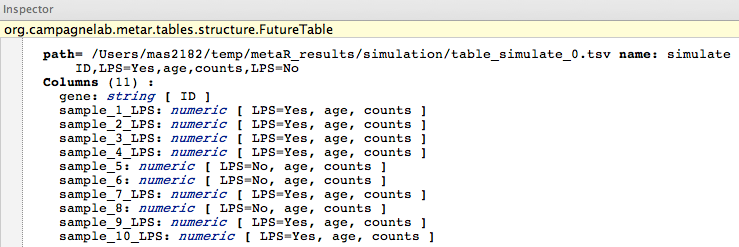
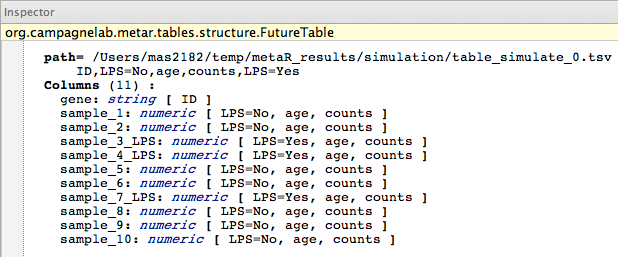
Enrich Simulating Datasets chapter with more text and figures.

Changed region(s): [[0.0, 0.0, 1.0, 1.0]]

diff --git a/chapter_SimulateDatasets.tex b/chapter_SimulateDatasets.tex
@@ -2,64 +2,74 @@
 
 \chapterimage{blue-chapter-head_4-reduced.pdf} % Chapter heading image
 
-\chapter{Simulate Datasets}\label{chap:SimulateDatasets}
-The integration with Docker helps with the reprducibility of your analyses. Installing packages with R does not make it possible to specific exactly the version of the package that you need for an analysis. While it is possible to always install the latest version of a package, the behavior of some packages will change over time. For this reason, it is useful to build snapshots of the R packages used during analysis and report the version number of the snapshot. 
+\chapter{Simulating Datasets}\label{chap:SimulatingDatasets}
 
-\section{Pre-requisites}
-You will need a working docker installation on your machine before you can run MetaR analyses with Docker.
-\subsection{Mac OS}
-\begin{SCfigure}
-  \centering
-  \includegraphics[width=\figWidthNarrow]{figures/Rocker-MetaR-Image.png}
-\caption[Download the MetaR Docker Image.]{\textbf{Download the MetaR Docker Image.} Follow steps steps to locate the MetaR Docker image.}
-\label{fig:RockerMetaRImage}
-\end{SCfigure}
+\section{Why simulating datasets}
 
-Mac users will find it convenient to download and install Kitematic (\url{https://kitematic.com/}). 
- After you unzip Kitematic, move the application to /Applications and start it. Wait until the virtual machine downloads and starts. When kitematic is ready, use the search box to locate the \texttt{rocker-metar} image (see Figure~\ref{fig:RockerMetaRImage} for instructions). 
+To test or validate an Analysis script with large datasets it is sometimes useful to create a simulation of such datasets when they are not available. This approach could be also beneficial at experimental design time to validate certain assumptions before running (expensive) experiments.
 
-
-\subsection{Other Platforms}
- Other users should refer to documented installation steps for their platform (see \url{http://docs.docker.com/installation/}).
-
-\section{Configuring Docker}\index{Docker}
-Docker integration can be configured using the MPS Preferences.  Open Preferences (Setting on Windows) and locate the Docker configuration (use the search box with the docker keyword). You will be presented with the following dialog shown in Figure~\ref{fig:DockerPreferencesDialog}.
+MetaR is extended with a Simulate Dataset command that allows to create datasets starting from a few parameters. In order to use the command, the Simulation language (\texttt{org.campagnelab.metaR.simulation}) has to be imported in the current model (use \keys{\cmd+L} and select the language from the list). Figure~\ref{fig:NewSimulateStatement} shows a new Simulate Dataset statement.
 
 \begin{figure}[h!tbp]
   \centering
-  \includegraphics[width=\figWidthWide]{figures/DockerPreferencesDialog.png}
-\caption[Docker Configuration Dialog.]{\textbf{Docker Configuration Dialog.} This dialog is available under MPS Preferences/Settings.}
-\label{fig:DockerPreferencesDialog}
+  \includegraphics[width=\figWidthWide]{figures/NewSimulateStatement.pdf}
+\caption[New Simulate Dataset Statement.]{\textbf{New Simulate Dataset Statement.} A new Simulate Dataset statement created after you have added the \texttt{org.campagnelab.metaR.simulation} language to the model's MPS Used Languages.}
+\label{fig:NewSimulateStatement}
+\end{figure}
+ 
+
+\section{The Simulate Dataset Statement}
+The Simulate Dataset statement is highly configurable and lets you create a variety of datasets for different needs.  
+
+\paragraph{num of samples}
+The number of samples in the dataset. Each sample is named according to the results of the simulation. If the simulation decides that the sample name \emph{sample\_3 }has been treated with a discrete factor named \emph{LPS}, it is renamed to \emph{sample\_3\_LPS} to make it easy to identify the affection.
+
+\paragraph{num of genes}
+The number of genes in the dataset. Each gene is renamed according to the results  of the simulation. If the simulation decides that the gene named \emph{gene\_2} is affected by a discrete factor named \emph{LPS}, it is renamed to \emph{gene\_2\_LPS} to make it easy to identify the treatment.
+
+\paragraph{mean}
+...
+
+\paragraph{discrete factors}
+List of treatments used in the simulation. About 50\% of the samples will be considered treated with each factor specified here. About 30\% of the genes will be considered affected by each factor.
+
+\paragraph{effect of discrete factors}
+The impact of each discrete factor on the data generated by the simulation
+
+\paragraph{continuous covariate}
+...
+
+
+\section{Example}
+
+\begin{figure}[h!tbp]
+  \centering
+  \includegraphics[width=\figWidthWide]{figures/SimulateStatementWithParameters.pdf}
+\caption[SimulateDataset Example.]{\textbf{Simulate Dataset Example.} The statement will create a dataset with a single discrete factor (LPS) and a covariate factor (age) with a range of 0 to 36 (for instance, this could be the mice age in a mouse model). }
+\label{fig:SimulateDatasetExample}
 \end{figure}
 
-\paragraph{path to docker executable}
-This field must provide a path to a valid docker executable. On linux, try \texttt{which docker} in the shell. On Mac, if you installed Kitematic\index{Kitematic}, open the application and start the terminal with the \menu{File>Open Docker Command}\allowbreak\menu{Line Terminal Window}. In the window, type \texttt{which docker} and copy the location to the field. 
 
-\paragraph{docker options}
-These are the options necessary to connect to the docker server. On Mac, if you installed Kitematic, open the application and start the terminal with the \menu{File>Open Docker Command}\allowbreak\menu{Line Terminal Window}. In the window, type \texttt{echo `docker-machine config`} and copy the line printed to the field. 
-
-\paragraph{image name}
-This is the name of the docker image that you wish to use with MetaR. Keep the default, or enter a customized image name here. Customizing the image is useful if you need to install additional packages than the ones we use during our training sessions. If you create a new image, make sure you use \texttt{fac2003/rocker-metar} in the FROM field. Images that do not build on \texttt{fac2003/rocker-metar} are not supported at this time.
-
-\begin{remark}
-Note that you can specify an image tag/version number. Append a colon (:) and the tag after the image name. For instance, use \texttt{fac2003/rocker-metar:1.3.1} to run the \texttt{rocker-metar} image packaged with MetaR 1.3.1.  
-\end{remark}
-
-\begin{remark}
-Note that specifying a tag is a good idea if you need to reproduce exactly an analysis in the future. Omitting the tag will always get the latest version of the image, which may change over time.  
-\end{remark}
-
-\paragraph{always use docker}
-This checkbox can be use to force the use of Docker by default when running an Analysis. This is convenient if you know that you configuration is correct and want to run all analyses with docker. 
-
-\section{Running with Docker}
-When docker is successfully configured, you can specify to use the docker image when running a MetaR analysis. See instructions in Figure~\ref{fig:RunWithDocker} to see how to configure running insider a Docker container.
-
-\begin{SCfigure}
+\begin{figure}[h!tbp]
   \centering
-  \includegraphics[width=\figWidthNarrow]{figures/CheckThisBoxToRunWithDocker.png}
-\caption[Run With Docker.]{\textbf{Run With Docker.} Right-click on an Analysis and do \menu{Create <analysis name>}. You will be presented with the Run Configuration customization dialog. Check the box to run with docker. Disable the check-box to run directly against the R installation on your computer (this behavior was the default prior for MetaR 1.3-).  }
-\label{fig:RunWithDocker}
-\end{SCfigure}
+  \includegraphics[width=\figWidthWide]{figures/SimulateTableInspector.png}
+\caption[SimulateDataset Inspector.]{\textbf{Preview of the Dataset structure as shown in the Inspector.}}
+\label{fig:SimulateDatasetInspector}
+\end{figure}
 
+
+\begin{figure}[h!tbp]
+  \centering
+  \includegraphics[width=\figWidthNarrow]{figures/SimulateCovariateTableInspector.png}
+\caption[SimulateCovariateTableInspector.]{\textbf{Covariate Table generated with Simulate Dataset.}}
+\label{fig:SimulateCovariateTableInspector}
+\end{figure}
+
+
+\begin{figure}[h!tbp]
+  \centering
+  \includegraphics[width=\figWidthWide]{figures/SimulateTableViewer.png}
+\caption[Table generated with Simulate Dataset.]{\textbf{Table generated with Simulate Dataset (partial view).}}
+\label{fig:SimulateDatasetViewer}
+\end{figure}
 
